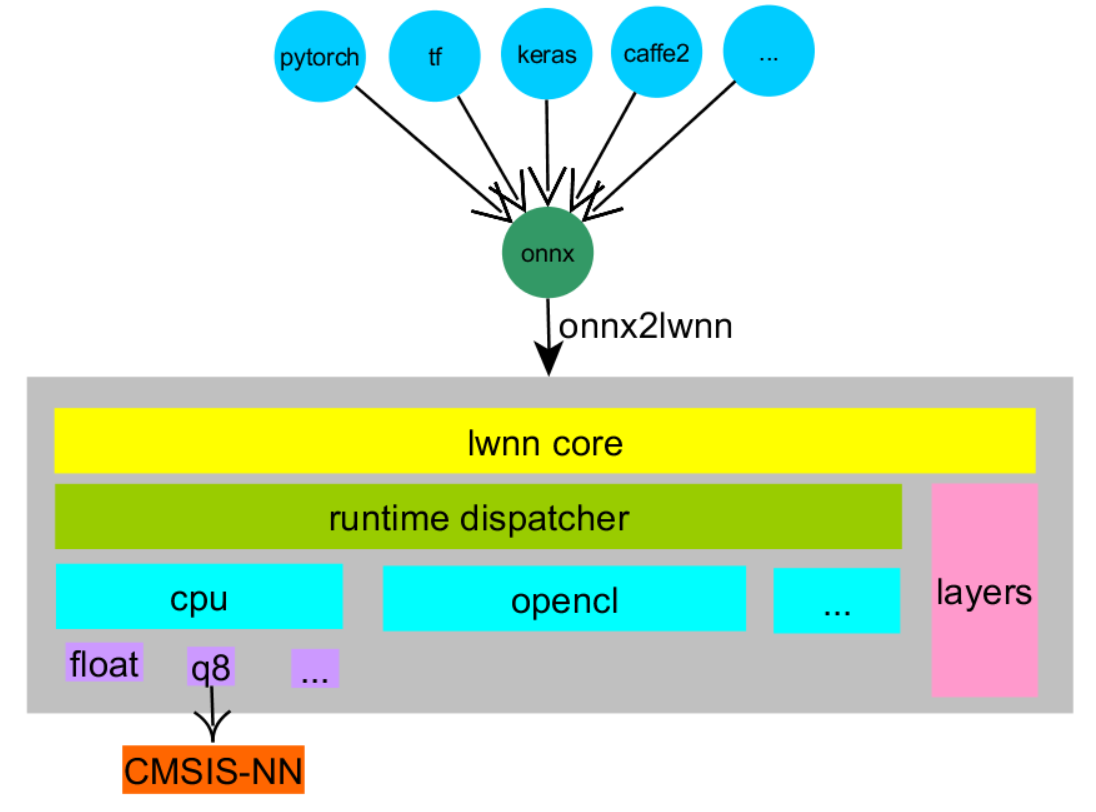
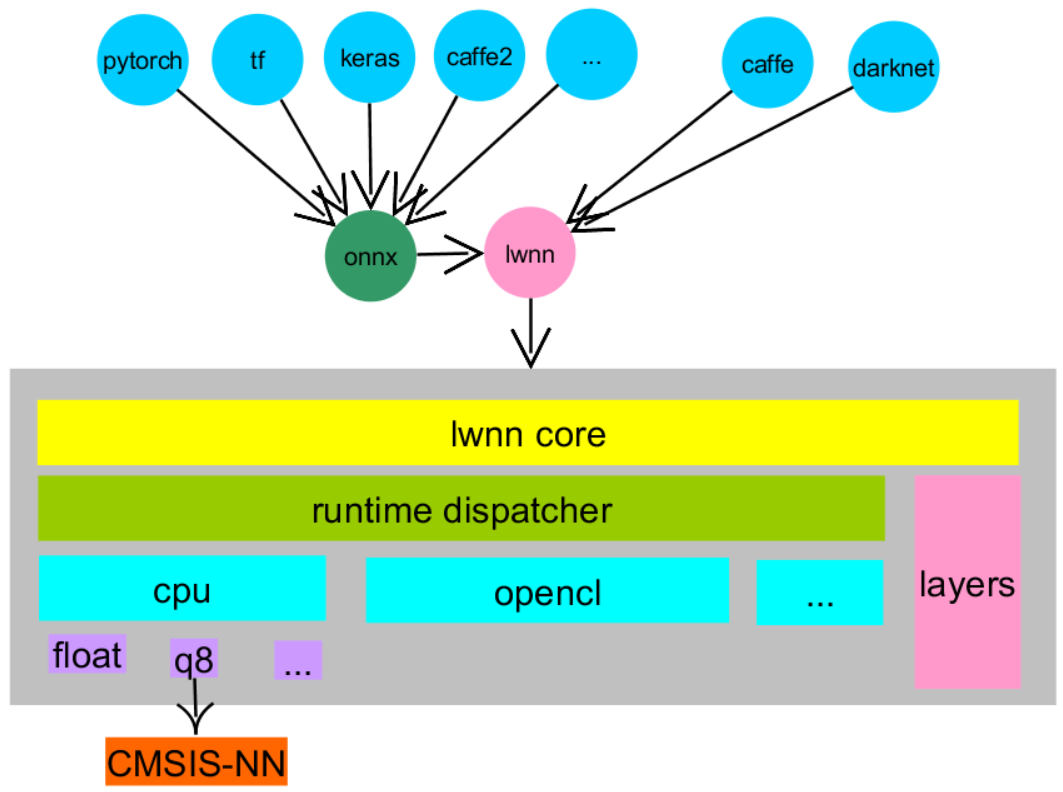
update README

Changed region(s): [[0.0, 0.0, 1.0, 1.0], [0.2173, 0.1818, 0.2484, 0.2121]]

diff --git a/README.md b/README.md
@@ -10,7 +10,7 @@ So I decieded to do something meaningfull, do some study of OpenCL and at the me
 
 ## Architecture
 
-And for the purpose to support variant Deep Learning frameworks such as tensorflow/keras/caffe2, pytorch etc, the [onnx](https://onnx.ai/) will be supported by lwnn.
+And for the purpose to support variant Deep Learning frameworks such as tensorflow/keras/caffe2, pytorch etc, the [onnx](https://onnx.ai/) will be supported by lwnn, also for some old frameworks such as caffe/darknet that doesn't support onnx, they are supported by special handling.
 
 ![arch](docs/arch.png)
 
@@ -40,6 +40,11 @@ And for the purpose to support variant Deep Learning frameworks such as tensorfl
 | YoloOutput | Y | N | N | N | F | |
 
 * F means fallback to others runtime that supported that layer.
+
+* s8/q8/q16: all are in Q Format
+* s8: 8 bit symmetric quantization with zero offset, very similar to [tflite quantization](https://github.com/tensorflow/tensorflow/blob/master/tensorflow/lite/g3doc/performance/quantization_spec.md)
+
+* q8/q16: 8/16 bit symmetric quantization, no zero offset.
 
 ## Supported Famous Models
 
